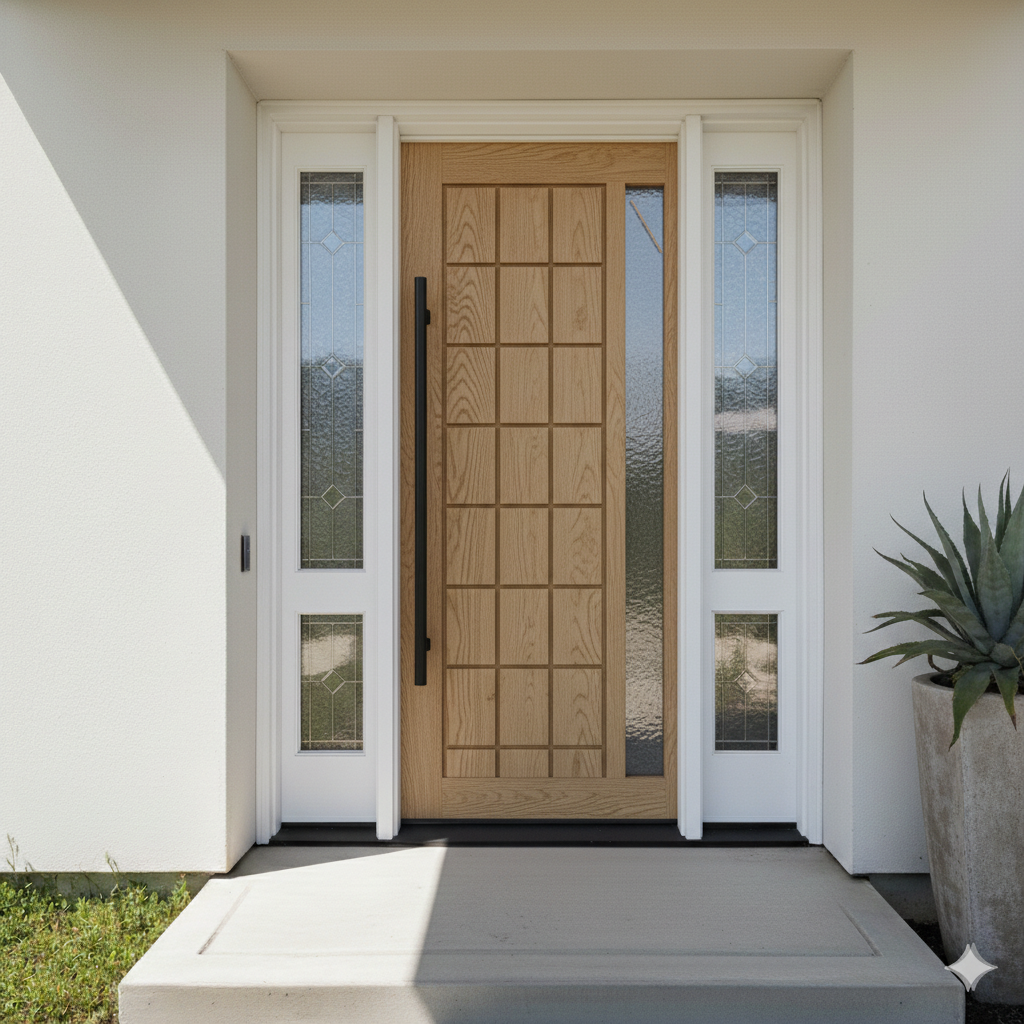
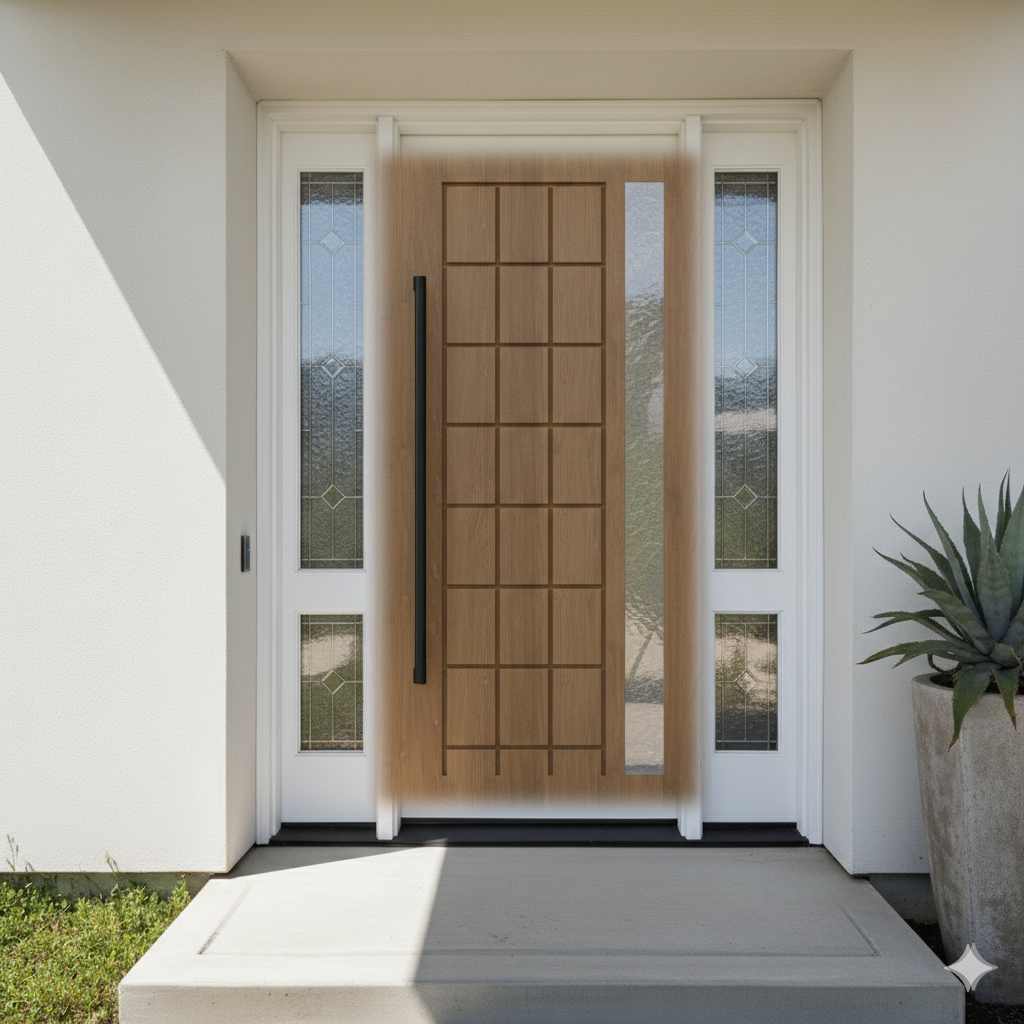
Fix door bounds clamping and add craftsman template
- Add post-processing step that extracts only the door region from Gemini
  output and blends it onto the original stock photo with margin + feathering,
  preventing Gemini from shifting doors out of bounds
- Make stock photo and door bounds configurable per template instead of global
- Improve Gemini prompt to be stricter about preserving the exact door design
  (explicit element counts, forbidden additions list)
- Add craftsman template using door-craftsman.png stock photo with correct
  full-door bounds (398,100 → 688,820)
- Regenerate art-deco and metropolitan variants with bounds clamping

Changed region(s): [[0.3438, 0.125, 0.6875, 0.8125]]

diff --git a/scripts/generate_all_signatures.py b/scripts/generate_all_signatures.py
@@ -11,26 +11,29 @@ Usage:
 """
 
 import argparse
+import io
 import os
 import sys
 import time
 from pathlib import Path
 
-from PIL import Image
+from PIL import Image, ImageFilter
 
 # ── Paths ─────────────────────────────────────────────────────────────
 
 ROOT = Path(__file__).resolve().parent.parent
-STOCK_PHOTO = ROOT.parent / "bpr-web" / "public" / "door-images" / "door-traditional.png"
+DOOR_IMAGES = ROOT.parent / "bpr-web" / "public" / "door-images"
 OUTPUT_BASE = ROOT / "output"
 
-# Door slab bounds for door-traditional.png (from fine-grained pixel analysis)
-# Left: brightness jumps 75→199 at x=365; Right: drops 185→92 at x=712
-# Top: door surface starts at y=140; Bottom: drops 182→88 at y=817
-DOOR_X1, DOOR_Y1 = 365, 140
-DOOR_X2, DOOR_Y2 = 712, 817
-DOOR_W = DOOR_X2 - DOOR_X1  # 347
-DOOR_H = DOOR_Y2 - DOOR_Y1  # 677
+# Default stock photo and door slab bounds (door-traditional.png)
+DEFAULT_STOCK_PHOTO = DOOR_IMAGES / "door-traditional.png"
+DEFAULT_DOOR_BOUNDS = (365, 140, 712, 817)
+
+# Per-stock-photo door bounds
+STOCK_PHOTO_BOUNDS = {
+    "door-traditional.png": (365, 140, 712, 817),
+    "door-craftsman.png": (398, 100, 688, 820),
+}
 
 # ── Template configs ──────────────────────────────────────────────────
 # Extracted from bpr-backend/app/services/door_templates.py
@@ -162,6 +165,25 @@ SIGNATURE_TEMPLATES = {
         ],
         "handle_description": "a tall modern long-pull door handle — a sleek oil-rubbed bronze vertical bar that runs almost half the door height, mounted on small standoff brackets. Make it look like real aged bronze with warm dark patina and subtle highlights",
     },
+    "craftsman": {
+        "name": "Craftsman",
+        "wood_type": "white-oak",
+        "stain_color": "#6B5B4A",
+        "stock_photo": "door-craftsman.png",
+        "handle": {
+            "style": "square-pull",
+            "finish": "matte-black",
+            "side": "left",
+            "heightFromBottom": 40,
+        },
+        "elements": [
+            {"type": "recessed-panel", "position": {"x": 8, "y": 5}, "size": {"width": 20, "height": 22}, "depth": 0.625},
+            {"type": "recessed-panel", "position": {"x": 8, "y": 29}, "size": {"width": 20, "height": 22}, "depth": 0.625},
+            {"type": "recessed-panel", "position": {"x": 8, "y": 53}, "size": {"width": 20, "height": 22}, "depth": 0.625},
+        ],
+        "handle_description": "a square-pull door handle — a short matte black vertical bar about 12 inches long, mounted at waist height with standoff brackets. Make it look like real brushed matte black metal",
+        "prompt_context": "decorative leaded glass sidelights and a transom window",
+    },
 }
 
 
@@ -171,6 +193,7 @@ def build_prompt(template: dict) -> str:
     """Build Gemini prompt customized to the template's features."""
     name = template["name"]
     handle_desc = template["handle_description"]
+    context = template.get("prompt_context", "white sidelights")
 
     has_glass = any(e["type"] == "glass-panel" for e in template["elements"])
     has_panels = any(e["type"] == "recessed-panel" for e in template["elements"])
@@ -187,14 +210,39 @@ def build_prompt(template: dict) -> str:
 
     features_text = ", ".join(features)
 
+    # Build a description of what the door design looks like
+    element_counts = {}
+    for e in template["elements"]:
+        element_counts[e["type"]] = element_counts.get(e["type"], 0) + 1
+    design_parts = []
+    if "recessed-panel" in element_counts:
+        design_parts.append(f"{element_counts['recessed-panel']} recessed panel(s)")
+    if "groove" in element_counts:
+        design_parts.append(f"{element_counts['groove']} groove(s)")
+    if "glass-panel" in element_counts:
+        design_parts.append(f"{element_counts['glass-panel']} glass panel(s)")
+    design_desc = " and ".join(design_parts) if design_parts else "a flat slab"
+
+    # Build explicit list of what NOT to add
+    forbidden = []
+    if not has_glass:
+        forbidden.append("glass windows, lites, or transoms")
+    if not has_grooves:
+        forbidden.append("grooves or lines")
+    forbidden.append("decorative molding, dentils, or carvings")
+    forbidden_text = ", ".join(forbidden)
+
     return (
-        f"This is a photo of a house entrance with white sidelights. The door panel "
+        f"This is a photo of a house entrance with {context}. The door panel "
         f"in the center has been digitally composited and looks flat/fake. This is the "
-        f"{name} door design. Make the door panel look photorealistic — add {features_text}. "
-        f"The hardware on the left side of the door is {handle_desc}, matching the style "
-        f"of high-end modern entry door hardware. "
-        f"Keep the EXACT same composition, framing, and every pixel outside "
-        f"the door panel completely unchanged. Output the full 1024x1024 image."
+        f"{name} door design. The door has EXACTLY {design_desc} — do NOT change the "
+        f"number, size, or layout of these elements. "
+        f"Make ONLY the door panel look photorealistic — add {features_text}. "
+        f"The hardware on the left side of the door is {handle_desc}. "
+        f"CRITICAL: Do NOT add {forbidden_text} to the door. Do NOT redesign the door. "
+        f"The composited door layout is the EXACT design — only enhance material realism. "
+        f"Keep every pixel outside the door panel completely unchanged. "
+        f"Output the full 1024x1024 image."
     )
 
 
@@ -204,6 +252,15 @@ def generate_template(slug: str, template: dict, num_variants: int = 3):
     """Run full pipeline for one template."""
     from render_slab_generic import render_door_slab
 
+    # Resolve per-template stock photo and door bounds
+    stock_photo_name = template.get("stock_photo", "door-traditional.png")
+    stock_photo_path = DOOR_IMAGES / stock_photo_name
+    door_x1, door_y1, door_x2, door_y2 = STOCK_PHOTO_BOUNDS.get(
+        stock_photo_name, DEFAULT_DOOR_BOUNDS
+    )
+    door_w = door_x2 - door_x1
+    door_h = door_y2 - door_y1
+
     out_dir = OUTPUT_BASE / slug
     out_dir.mkdir(parents=True, exist_ok=True)
 
@@ -211,13 +268,15 @@ def generate_template(slug: str, template: dict, num_variants: int = 3):
     print(f"  {template['name']} ({slug})")
     print(f"  Wood: {template['wood_type']}, Stain: {template['stain_color']}")
     print(f"  Elements: {len(template['elements'])}")
+    print(f"  Stock photo: {stock_photo_name}")
+    print(f"  Door bounds: ({door_x1},{door_y1}) -> ({door_x2},{door_y2}) = {door_w}x{door_h}")
     print(f"{'='*60}")
 
     # Step 1: Render slab
     slab_path = out_dir / "slab.png"
     render_door_slab(
         slab_path,
-        width_px=DOOR_W,
+        width_px=door_w,
         wood_type=template["wood_type"],
         stain_color=template["stain_color"],
         elements=template["elements"],
@@ -225,10 +284,10 @@ def generate_template(slug: str, template: dict, num_variants: int = 3):
     )
 
     # Step 2: Composite
-    stock = Image.open(STOCK_PHOTO).convert("RGBA")
+    stock = Image.open(stock_photo_path).convert("RGBA")
     slab = Image.open(slab_path).convert("RGBA")
-    slab_resized = slab.resize((DOOR_W, DOOR_H), Image.LANCZOS)
-    stock.paste(slab_resized, (DOOR_X1, DOOR_Y1))
+    slab_resized = slab.resize((door_w, door_h), Image.LANCZOS)
+    stock.paste(slab_resized, (door_x1, door_y1))
 
     composite_path = out_dir / "composite.png"
     stock.convert("RGB").save(composite_path)
@@ -246,6 +305,9 @@ def generate_template(slug: str, template: dict, num_variants: int = 3):
     client = genai.Client(api_key=api_key)
     composite_bytes = composite_path.read_bytes()
     prompt = build_prompt(template)
+
+    # Load original stock photo for post-processing (clamp door to bounds)
+    original_stock = Image.open(stock_photo_path).convert("RGB")
 
     for i in range(1, num_variants + 1):
         print(f"  Gemini variant {i}/{num_variants}...")
@@ -269,8 +331,35 @@ def generate_template(slug: str, template: dict, num_variants: int = 3):
             for part in response.candidates[0].content.parts:
                 if part.inline_data and part.inline_data.mime_type.startswith("image/"):
                     out_path = out_dir / f"variant-{i}.png"
-                    out_path.write_bytes(part.inline_data.data)
-                    print(f"    Saved: {out_path}")
+
+                    # Post-process: extract the door region from Gemini output
+                    # and blend it onto the original stock photo. We shrink
+                    # the crop inward by MARGIN pixels so the original door
+                    # frame/trim is preserved, and feather the edges for a
+                    # smooth transition.
+                    MARGIN = 15
+                    FEATHER = 8
+                    gemini_img = Image.open(io.BytesIO(part.inline_data.data)).convert("RGB")
+                    gemini_img = gemini_img.resize(original_stock.size, Image.LANCZOS)
+
+                    # Build a soft alpha mask: white in the inner door area,
+                    # black outside, with feathered edges for blending.
+                    inner_x1 = door_x1 + MARGIN
+                    inner_y1 = door_y1 + MARGIN
+                    inner_x2 = door_x2 - MARGIN
+                    inner_y2 = door_y2 - MARGIN
+                    mask = Image.new("L", original_stock.size, 0)
+                    from PIL import ImageDraw
+                    ImageDraw.Draw(mask).rectangle(
+                        [inner_x1, inner_y1, inner_x2, inner_y2], fill=255
+                    )
+                    mask = mask.filter(ImageFilter.GaussianBlur(radius=FEATHER))
+
+                    final = original_stock.copy()
+                    final.paste(gemini_img, (0, 0), mask)
+                    final.save(out_path)
+
+                    print(f"    Saved (clamped to door bounds): {out_path}")
                     saved = True
                     break
                 if part.text:
